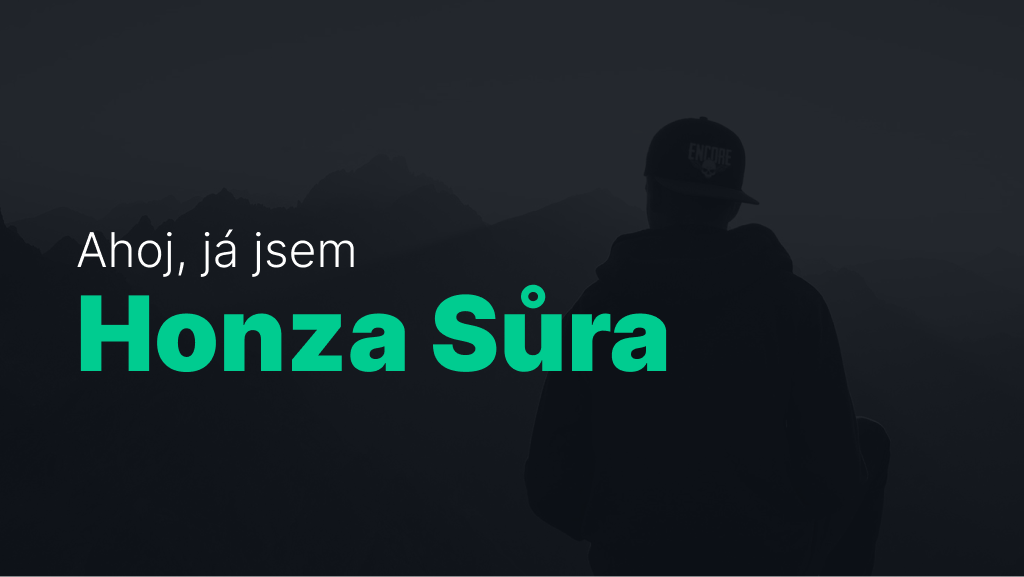
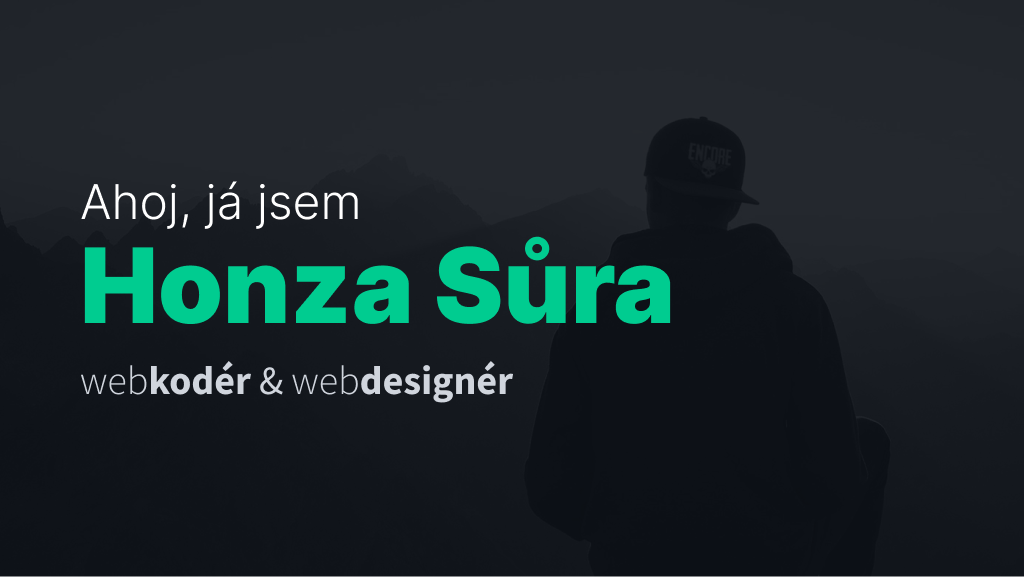
Update hero images

Changed region(s): [[0.0625, 0.312, 0.6562, 0.7175]]

diff --git a/README.md b/README.md
@@ -3,8 +3,6 @@
   <img src="https://github.com/jsuradesign/jsuradesign/blob/master/assets/hero-bg-light.png?raw=true">
 </picture>
 
-## FrontEnd vývojář a WebDesigner
-
 <br />
 
 ## 🔭 V současné době pracuji na projektech:
